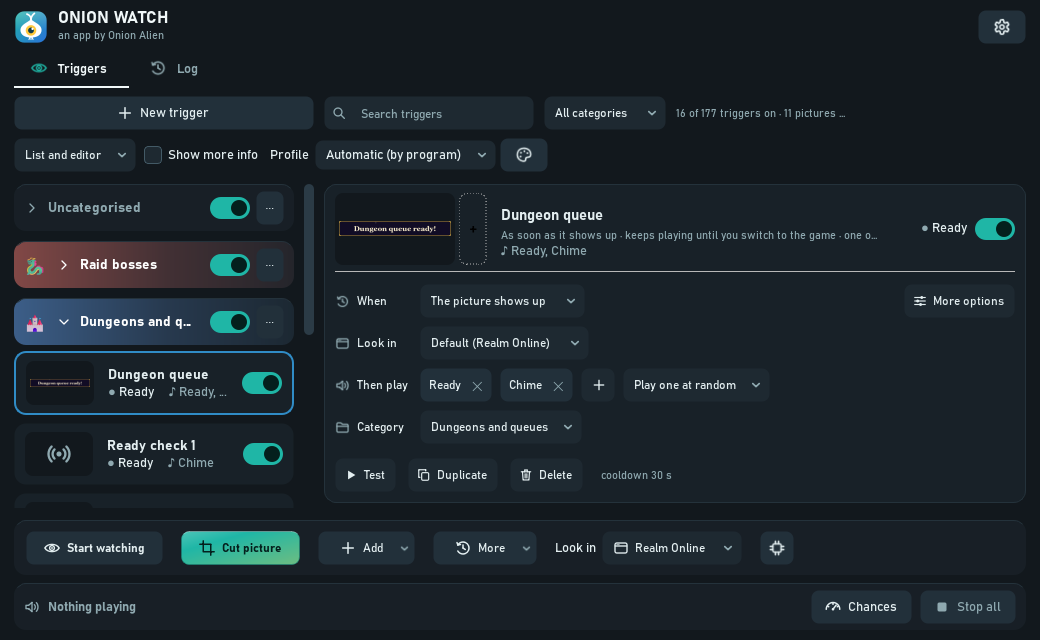
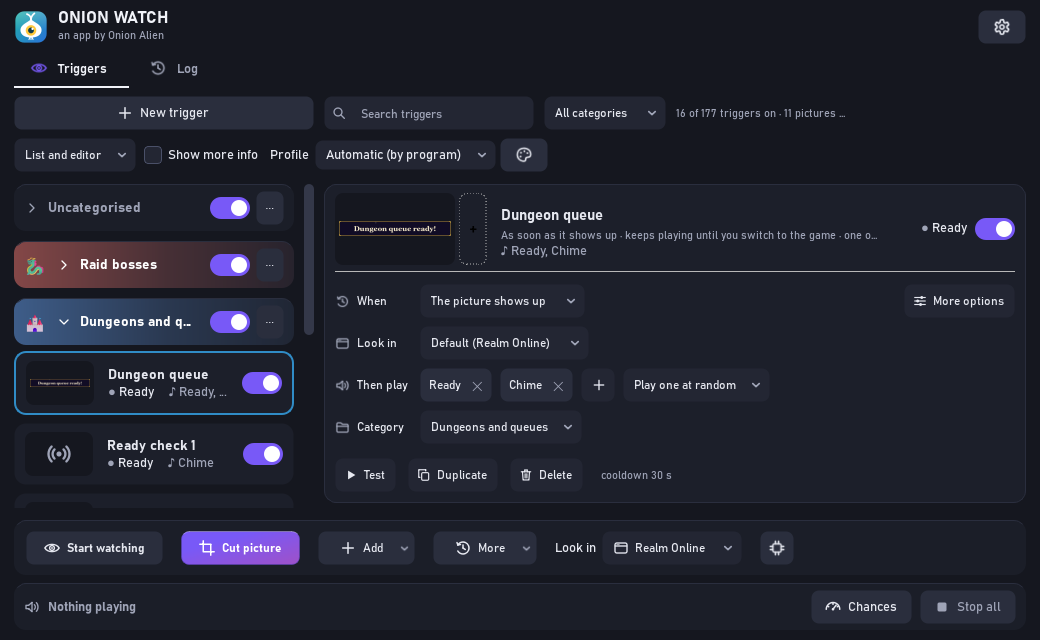
Site: Onion Watch's pictures in Dark, like the rest

diff --git a/docs/index.html b/docs/index.html
@@ -537,7 +537,7 @@
       <h2 class="rv">Go do something else. <em>Hoot's got it.</em></h2>
       <p class="sub rv">Pick your game's window, cut out the thing to watch for, choose a sound.</p>
       <div class="showcase"><div class="frame">
-        <img src="screenshots/watch/main.png?v=b23468af" width="900" height="820" alt="Onion Watch watching a game, one trigger open" loading="lazy">
+        <img src="screenshots/watch/main.png?v=45db04c9" width="900" height="820" alt="Onion Watch watching a game, one trigger open" loading="lazy">
       </div></div>
     </section>
 
@@ -558,10 +558,10 @@
       <span class="kicker rv">A closer look</span>
       <h2 class="rv">Point it at <em>anything.</em></h2>
       <div class="shots">
-        <figure class="rv"><img src="screenshots/watch/window-picker.png?v=83dd3fc9" alt="Picking the windows to watch" loading="lazy"><figcaption><b>Windows</b>Pick the windows, or every copy of a game</figcaption></figure>
-        <figure class="rv"><img src="screenshots/watch/cut-picture.png?v=1b58a1f9" alt="Cutting a picture out of the game" loading="lazy"><figcaption><b>Cut picture</b>Cut out the thing to watch for</figcaption></figure>
-        <figure class="rv"><img src="screenshots/watch/health-bar.png?v=509742ed" alt="Picking a health bar and its colour" loading="lazy"><figcaption><b>Health bar</b>Or point it at a health bar</figcaption></figure>
-        <figure class="rv"><img src="screenshots/watch/categories.png?v=943029bb" alt="Categories and profiles" loading="lazy"><figcaption><b>Categories</b>Hundreds of triggers in categories and profiles</figcaption></figure>
+        <figure class="rv"><img src="screenshots/watch/window-picker.png?v=e2c6c3fb" alt="Picking the windows to watch" loading="lazy"><figcaption><b>Windows</b>Pick the windows, or every copy of a game</figcaption></figure>
+        <figure class="rv"><img src="screenshots/watch/cut-picture.png?v=564416b4" alt="Cutting a picture out of the game" loading="lazy"><figcaption><b>Cut picture</b>Cut out the thing to watch for</figcaption></figure>
+        <figure class="rv"><img src="screenshots/watch/health-bar.png?v=1d8ffe6a" alt="Picking a health bar and its colour" loading="lazy"><figcaption><b>Health bar</b>Or point it at a health bar</figcaption></figure>
+        <figure class="rv"><img src="screenshots/watch/categories.png?v=3c697ad8" alt="Categories and profiles" loading="lazy"><figcaption><b>Categories</b>Hundreds of triggers in categories and profiles</figcaption></figure>
       </div>
     </section>
 

diff --git a/scripts/docs.py b/scripts/docs.py
@@ -13,7 +13,7 @@ so nobody is shown an old cached copy after the pictures change.
 
 Screenshots are screenshots.py (offscreen, made-up data, the Dark theme, Textured). The
 Onion Watch pictures in docs/screenshots/watch/ come from Onion Watch's own screenshots.py
-(`python scripts/screenshots.py <dir> --theme Hoot` there; its game is the same scene as
+(`python scripts/screenshots.py <dir>` there, Dark like these; its game is the same scene as
 this site's Watch demo): copy main, window-picker, cut-picture, health-bar and categories
 in, then run this with --no-shots to re-link them. Set
 ONIONBOARD_ONION_WATCH_ZIP to an OnionWatch-module.zip to include the Triggers tab.
